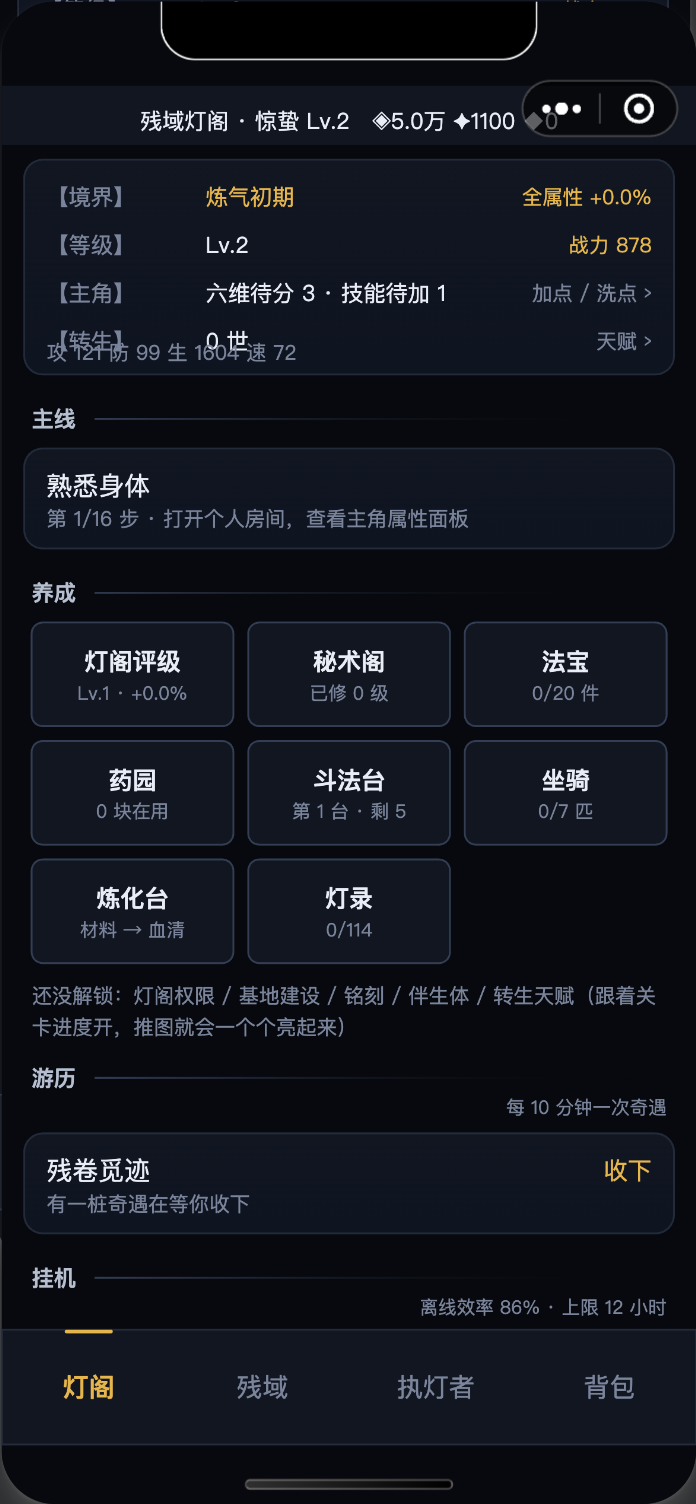
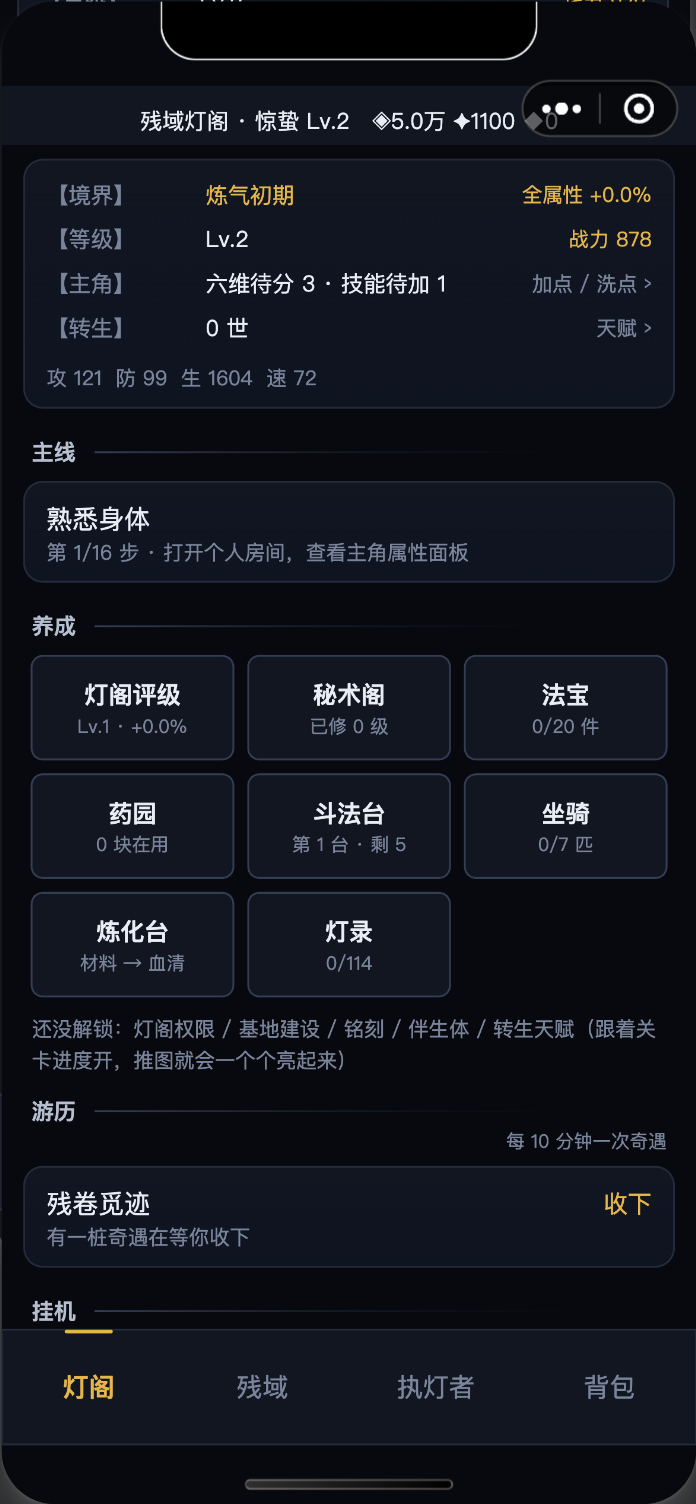
feat(逐页对齐·主角卡): 头像+战力头部、卡内「| 标题」、六维改「已分配 N 点 → +X」+ [+1]
对照网页版主角卡：
- 头部卡：金色圆形头像 + 名字 + 「主角」标签 + 右侧 22px 大号战力（原来只是一行文字）
- 卡内标题改成网页版的「| 六维属性」「| 血统技能」写法，右上角带「可用点数 / 可用技能点」
- 六维每一行：名字 + 说明 + 「已分配 N 点 → +X」，右侧按钮是 +1（点整行加一点，行为不变）
- 补上网页版的两段说明（每升 1 级 3 点/每点 +2 维值；技能点规则）

diff --git a/js/screens.js b/js/screens.js
@@ -724,22 +724,44 @@ CV.register('char', function (p) {
   attributePanel(eff, '伙伴');
 });
 
+/* 卡内小标题：网页版是「| 六维属性」这种带竖线的写法 */
+function cardTitle(label, right) {
+  L.y += 4;
+  CV.drawText('|', 16, L.y + 8, { size: 13, bold: true, color: CV.C.accent });
+  CV.drawText(label, 24, L.y + 8, { size: 13, bold: true, color: CV.C.text });
+  if (right) CV.drawText(right, CV.W - 16, L.y + 8, { size: 11, align: 'right', color: CV.C.gold });
+  L.y += 24;
+}
 CV.register('protagonist', function () {
-  const s = S(), st = Core.effectivePlayerStats();
-  L.text(`${s.player.name}  Lv.${s.player.level}`, { size: 17, bold: true });
-  L.text(`战力 ${fmt(Core.playerPower())} · 可用属性点 ${s.player.attrPoints} · 技能点 ${s.player.skillPoints}`, { size: 12, color: CV.C.dim });
-  L.text(`攻 ${fmt(st.atk)}　防 ${fmt(st.def)}　生 ${fmt(st.hp)}　速 ${fmt(st.spd)}　暴击 ${(st.crit * 100).toFixed(1)}%　闪避 ${(st.eva * 100).toFixed(1)}%`, { size: 12 });
+  const s = S(), sp = s.player, st = Core.effectivePlayerStats();
+  // 头部卡：头像 + 名字 +（主角）标签 + 右侧大号战力（对齐网页版的 .pg-main / hero）
+  CV.fillPanel(12, L.y, CV.W - 24, 86, { grad: [CV.C.panel, '#0e1420'], line: CV.C.line });
+  CV.fillPanel(24, L.y + 15, 56, 56, { grad: ['#3a2a12', '#8a6a20'], line: CV.C.gold, r: 28 });
+  CV.drawText((sp.name || '执')[0], 52, L.y + 43, { size: 26, bold: true, align: 'center', color: '#fff7e6' });
+  CV.drawText(sp.name, 92, L.y + 26, { size: 17, bold: true });
+  CV.drawText('Lv.' + sp.level, 92, L.y + 48, { size: 11, color: CV.C.dim });
+  CV.fillPanel(132, L.y + 17, 46, 18, { fill: '#2a1f12', line: CV.C.gold, r: 4 });
+  CV.drawText('主角', 155, L.y + 26, { size: 10, align: 'center', color: CV.C.gold });
+  CV.drawText(fmt(Core.playerPower()), CV.W - 24, L.y + 30, { size: 22, bold: true, align: 'right', color: CV.C.gold });
+  CV.drawText('战力', CV.W - 24, L.y + 52, { size: 10, align: 'right', color: CV.C.dim });
+  CV.addHit('open_protagonist', 12, L.y, CV.W - 24, 1);   // 头部本身不重复挂点击
+  L.y += 94;
   L.text(`境界：${Core.realmState().curName || '未选血统'}（${Core.realmState().realm} 阶 · 全属性 +${(Core.realmBonusPct() * 100).toFixed(1)}%）`, { size: 12, color: CV.C.gold });
-  L.title('六维', `可用 ${s.player.attrPoints} 点`);
+  L.text(`攻 ${fmt(st.atk)}　防 ${fmt(st.def)}　生 ${fmt(st.hp)}　速 ${fmt(st.spd)}　暴击 ${(st.crit * 100).toFixed(1)}%　闪避 ${(st.eva * 100).toFixed(1)}%`, { size: 12 });
+  // 六维卡（与网页版同构：已分配 N 点 → +X，右侧 [+1]）
+  cardTitle('六维属性', `可用点数 ${sp.attrPoints || 0}`);
+  L.text('每升 1 级获得 3 点；每点 +2 维值；加错了随时点「洗点」，不花任何东西。', { size: 11, color: CV.C.dim });
   D.ATTR_META.forEach(a => {
-    L.row(a.name, a.desc, { id: 'attr_' + a.id, value: `+${s.player.attrs[a.id] || 0}`, valueColor: CV.C.gold });
+    const n = sp.attrs[a.id] || 0;
+    L.row(a.name, `${a.desc}　已分配 ${n} 点 → +${n * D.ATTR_POINT_VALUE}`, { id: 'attr_' + a.id, value: '+1', valueColor: CV.C.gold });
   });
   L.btnRow([{ label: '洗点（免费）', id: 'reset_attrs', size: 12 }, { label: '加 5 点', id: 'attr_add5', size: 12 }]);
   L.btnRow([
     { label: '🔒 铭刻', id: 'open_genelock', size: 12 },
     { label: '⚗ 炼化台（血清）', id: 'open_refine', size: 12 },
   ]);
-  L.title('技能', `可用技能点 ${s.player.skillPoints}`);
+  cardTitle('血统技能', `可用技能点 ${s.player.skillPoints || 0}`);
+  L.text('每升 1 级获得 1 点技能点；点错了点「重置」会退回全部技能点。', { size: 11, color: CV.C.dim });
   const sk = Core.protagonistSkills();
   ['s1', 's2', 'ult'].forEach((k, i) => {
     L.row(`${sk[k].name} Lv.${(s.player.skillLv || [1, 1, 1])[i]}`, sk[k].desc || '', { id: 'pskill_' + i, value: '升级' });
